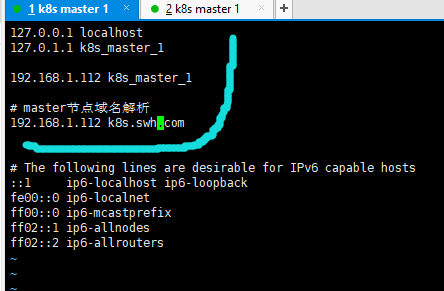
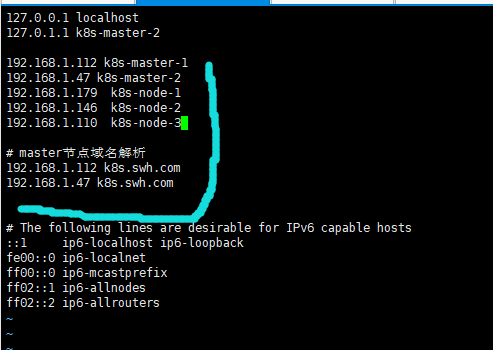
k8s master okay

Changed region(s): [[0.0, 0.0, 1.0, 1.0]]

diff --git a/Kubernetes/prepare/README.md b/Kubernetes/prepare/README.md
@@ -44,7 +44,7 @@
     - DHCP分配的`k8s master 2` ip为`192.168.1.47`
     - DHCP分配的`k8s node 1` ip为`192.168.1.179.`
     - DHCP分配的`k8s node 2` ip为`192.168.1.146`
-    - DHCP分配的`k8s node 3` ip为`192.168.1.`
+    - DHCP分配的`k8s node 3` ip为`192.168.1.110`
 
 ### Step2: 修改节点名称(模拟域名形式)
 - 对于master节点
@@ -61,7 +61,7 @@
         192.168.1.47  k8s-master-2
         192.168.1.179  k8s-node-1
         192.168.1.146  k8s-node-2
-        192.168.80.139  ubuntu-worker-node-3
+        192.168.1.110  k8s-node-3
         
         # master节点域名解析涉及负载均衡(本示例并没有实现LB, 这边只用了两台, 生产环境中至少三台) 
         192.168.1.112  k8s.swh.com
